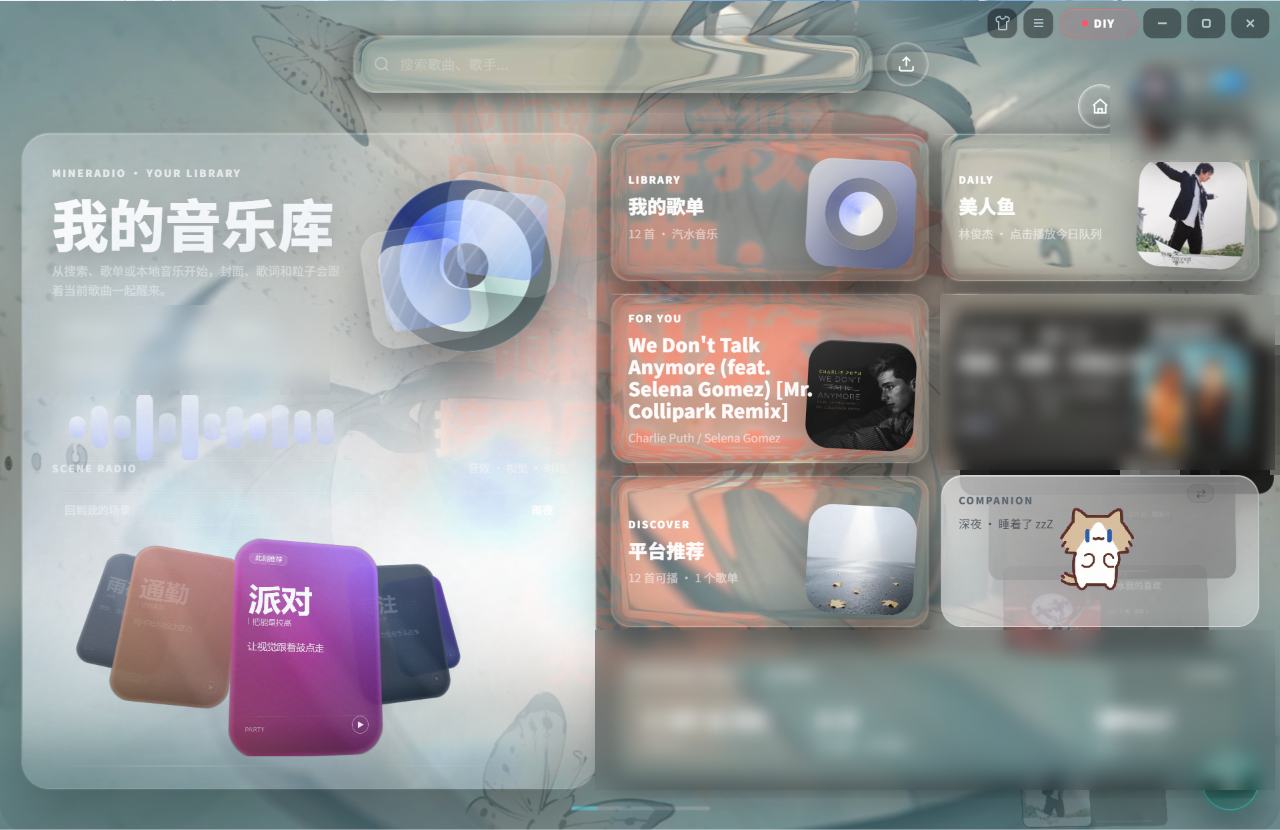
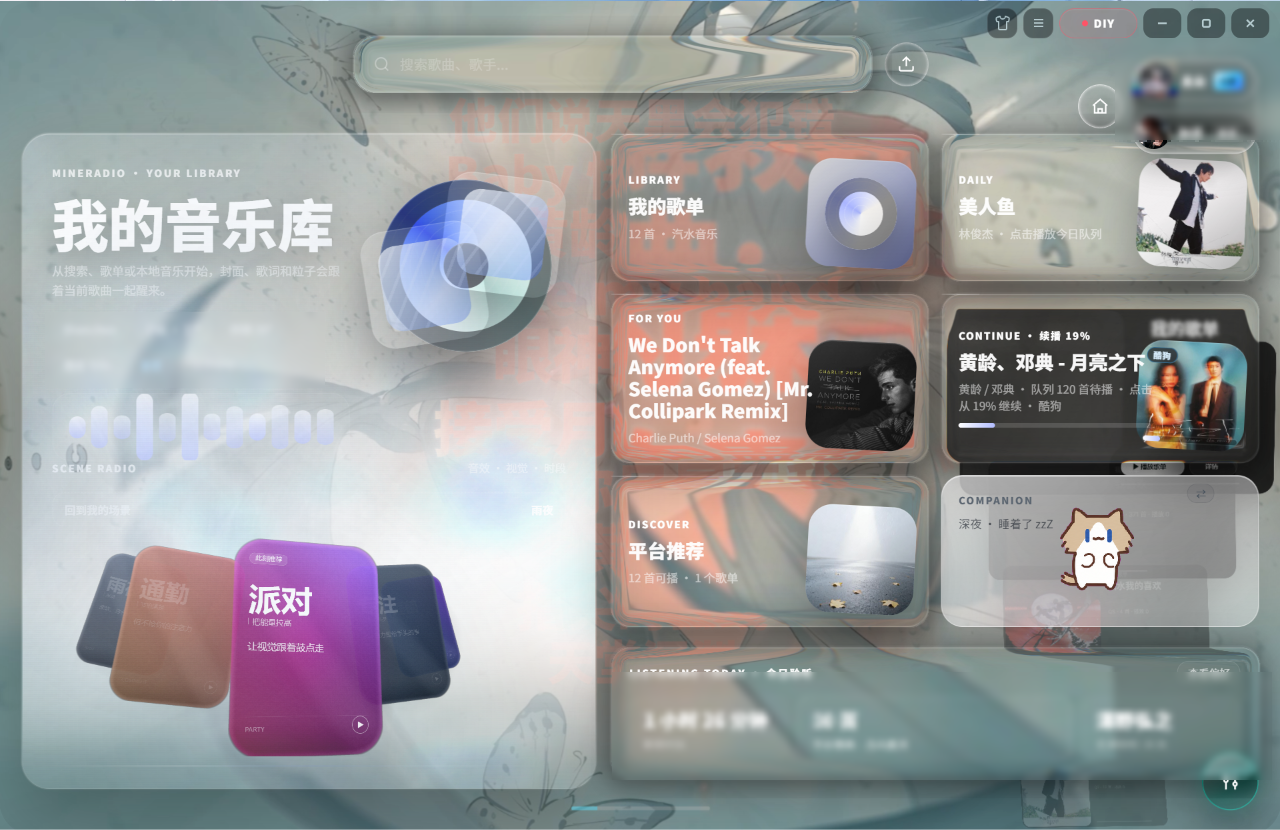
fix(ui): 把手恢复原本小横条；README 截图打码减轻
用户反馈两点：
1) 控制台进度条上边多出一条「小进度条」——上一版把 body 级
   #bottom-handle 那根线改成了双色进度填充并提高了 opacity。
   撤销 shell.css 的 #bottom-handle{opacity:.5} 与 span 渐变覆盖，
   撤销 04-progress-seek.js 的 --play-progress 写入，把手恢复
   playback.css 原本的单色小横条；隐藏态的歌曲进度仍由
   #progress-bar 承担（隐藏态轨道增强规则保留）。
   守卫改为反向断言：不许再出现第二根进度条。
2) README 截图打码过重，「不知道的还以为播放器本来就是糊的」。
   按用户确认「歌单贴出来也无所谓」，去掉歌单面板、续播记录的
   打码；只保留账号胶囊、城市天气、听歌统计三处，并把像素块
   从 10/12 降到 4、模糊半径从 8 降到 3。三张图重新生成并逐块
   目视复核：隐私文字不可读，歌单/续播/歌曲名清晰，整体不再是
   大片马赛克。

验证：守卫 12 条、quick 全绿、unit 775/775；三张 PNG 真解码成功。

diff --git a/tests/wallpaper-media-protocol-guard.test.js b/tests/wallpaper-media-protocol-guard.test.js
@@ -256,22 +256,24 @@ test('控制台隐藏态必须压过歌单主题的 !important 深色玻璃条',
     'home-controls-locked 路径也要覆盖（showHome 走这条）',
   );
 
-  // 隐藏态下底栏沉出屏幕，唯一稳定的进度载体是 body 级 #bottom-handle
+  // 把手必须保持原本的单色小横条：用户实测「控制台进度条上边怎么还有个
+  // 小进度条，本来是小横条的」—— 之前把把手做成双色进度条 + 无条件 opacity:.5
+  // 会在控制台升起时叠出第二根进度条。隐藏态进度由 #progress-bar 承担即可。
   const seekSrc = fs.readFileSync(path.join(ROOT, 'public/js/modules/06-lyrics/04-progress-seek.js'), 'utf8');
-  assert.match(
+  assert.doesNotMatch(
     seekSrc,
-    /setProgressVisual\(percent\)[\s\S]{0,1200}--play-progress/,
-    'setProgressVisual 必须把百分比写到 #bottom-handle（隐藏态的进度来源）',
+    /--play-progress/,
+    'setProgressVisual 不许再往 #bottom-handle 写进度（把手恢复单色小横条）',
   );
-  assert.match(
+  assert.doesNotMatch(
     shellCss,
     /#bottom-handle\{opacity:\.5\}/,
-    '把手 opacity 必须无条件提到 .5（原 .14 看不清进度；controls-visible 的 0 优先级更高不受影响）',
+    '不许无条件提高把手 opacity：controls-visible 时应由 playback.css 隐藏它',
   );
-  assert.match(
+  assert.doesNotMatch(
     shellCss,
-    /#bottom-handle span\{[\s\S]{0,300}rgba\(96,225,255,\.98\)/,
-    '已播放段必须用固定青色：--fc-accent-rgb 在浅色主题下是白色，双色会没对比',
+    /#bottom-handle span\{[\s\S]{0,300}--play-progress/,
+    '把手 span 不许再画成第二条进度条',
   );
 
   // 镜像挂在 body 层后必须自己带窗口圆角（用户实测：WE 壁纸让四周变方）

diff --git a/public/css/10-shell/shell.css b/public/css/10-shell/shell.css
@@ -859,17 +859,8 @@ html #bottom-bar.visible.soft-hidden > .lg-glass-shell,
 html body.home-controls-locked #bottom-bar.visible > .lg-glass-shell{
   display:none!important;
 }
-/* 隐藏态下把手那根线就是进度条：--play-progress 由 setProgressVisual 写入。
- * 原 #bottom-handle{opacity:.14} 太淡看不清进度，提到 .5；
- * body.controls-visible 的 0、:hover/awake 的 .82 特异性更高，仍会正常生效。
- * 已播放段用固定青色：--fc-accent-rgb 在浅色主题下是白色，靠它做双色会没有对比。 */
-#bottom-handle{opacity:.5}
-#bottom-handle span{
-  background:linear-gradient(90deg,
-    rgba(96,225,255,.98) 0 var(--play-progress,0%),
-    rgba(255,255,255,.30) var(--play-progress,0%) 100%)!important;
-  box-shadow:0 0 12px rgba(96,225,255,.35)!important;
-}
+/* 把手保持原本的单色小横条（playback.css 的 opacity:.14 / 白色 4px），
+   不再叠加第二根进度条——隐藏态的歌曲进度由下方 #progress-bar 承担。 */
 /* 隐藏态下进度线要更清楚（原深色玻璃没了，给轨道一点底） */
 html #bottom-bar.visible.soft-hidden #progress-bar,
 html body.home-controls-locked #bottom-bar.visible #progress-bar{

diff --git a/public/js/modules/06-lyrics/04-progress-seek.js b/public/js/modules/06-lyrics/04-progress-seek.js
@@ -152,12 +152,6 @@ function setProgressVisual(percent) {
   var thumb = document.getElementById('progress-thumb');
   if (fill) fill.style.width = pctStr;
   if (thumb) thumb.style.left = pctStr;
-  // 控制台隐藏后底栏沉下去，屏幕里只剩 #bottom-handle 那根线。
-  // 把进度同步到它，隐藏态也能看到播放进度（2026-11-13 用户实测诉求）。
-  var handle = document.getElementById('bottom-handle');
-  if (handle) {
-    try { handle.style.setProperty('--play-progress', pctStr); } catch (e) { }
-  }
 }
 
 // P1：预览→live 交接 spring（MineradioMotion）。只动视觉 percent，不碰 thumb transform / 预览时钟 / seek 时间。
